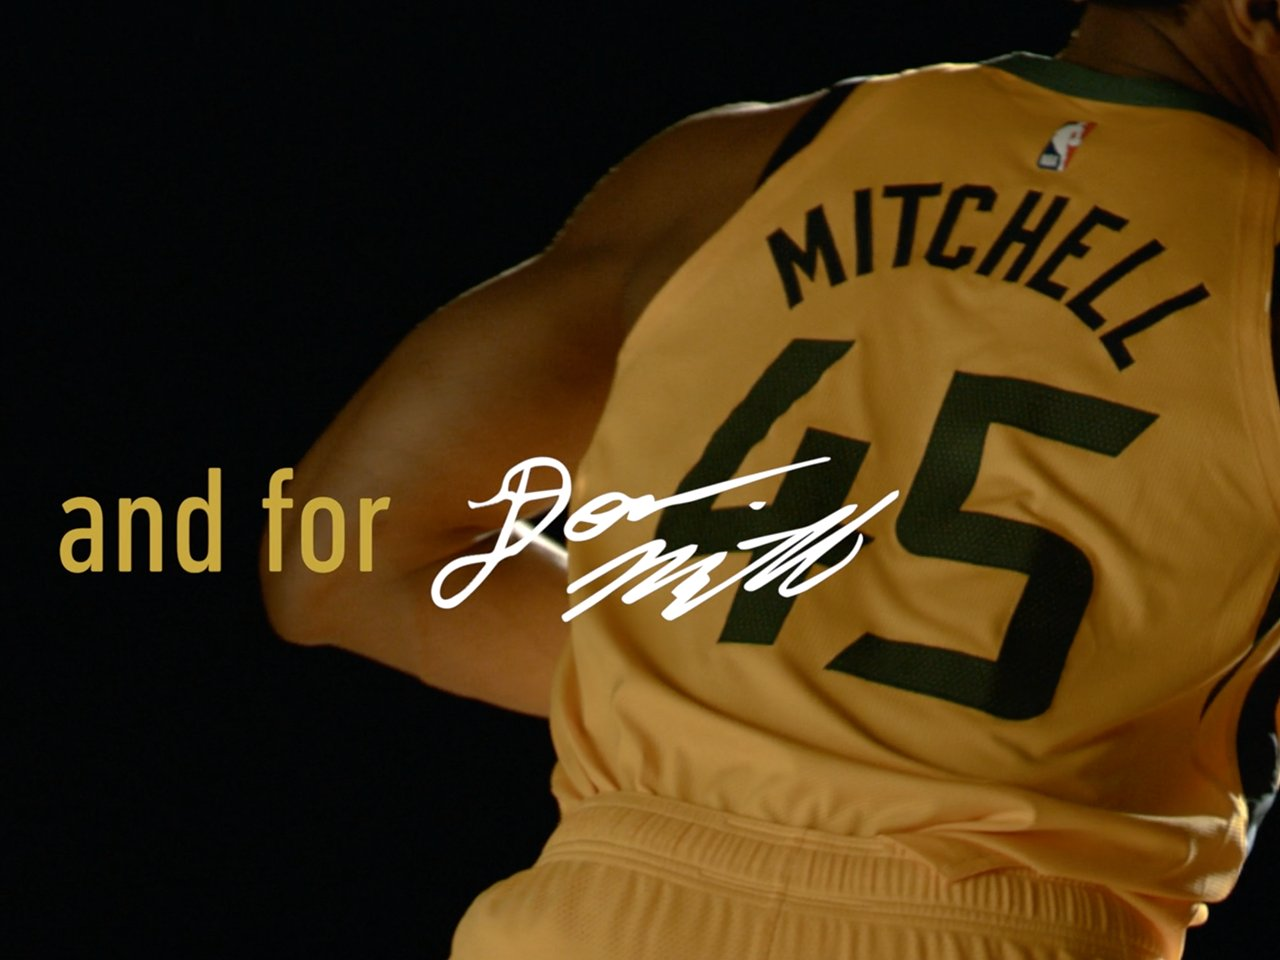
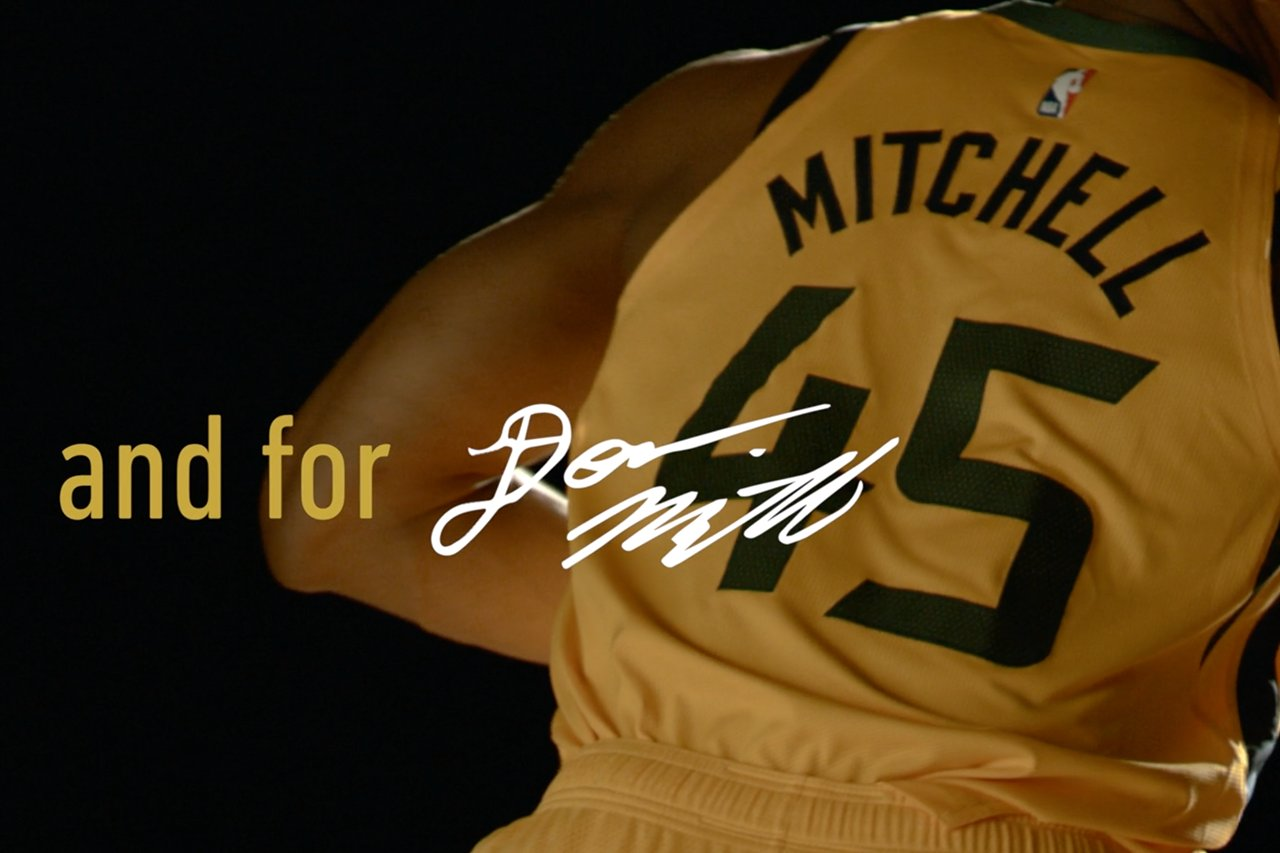
Preview: 3:2 gallery cards on #F2F1EE, framed wide pieces (&Collar board face, Morgan, Ken Garff, Rustic Coffins), full-bleed VSP/Zions/Canyons/DMS crops

diff --git a/index.html b/index.html
@@ -45,7 +45,7 @@
   <div class="grid">
 
     <a class="card" href="work/and-collar.html">
-      <div class="thumb"><img src="img/and-collar/cover.jpg" srcset="img/and-collar/cover-800.jpg 800w, img/and-collar/cover.jpg 1826w" sizes="(max-width: 760px) 88vw, 44vw" width="1826" height="604" alt="&amp;Collar billboard — Zero tucks given."></div>
+      <div class="thumb"><img src="img/and-collar/cover.jpg" srcset="img/and-collar/cover-800.jpg 800w, img/and-collar/cover.jpg 1800w" sizes="(max-width: 760px) 88vw, 44vw" width="1800" height="1200" alt="&amp;Collar billboard — Zero tucks given."></div>
       <div class="meta">
         <div>
           <strong>&amp;Collar</strong>
@@ -55,7 +55,7 @@
       </div>
     </a>
     <a class="card" href="work/morgan-jewelers.html">
-      <div class="thumb"><img src="img/morgan-jewelers/cover-wise-men.jpg" srcset="img/morgan-jewelers/cover-wise-men-800.jpg 800w, img/morgan-jewelers/cover-wise-men.jpg 1194w" sizes="(max-width: 760px) 88vw, 44vw" width="1194" height="384" alt="Morgan Jewelers — Wise men bring gifts."></div>
+      <div class="thumb"><img src="img/morgan-jewelers/cover-wise-men.jpg" srcset="img/morgan-jewelers/cover-wise-men-800.jpg 800w, img/morgan-jewelers/cover-wise-men.jpg 1388w" sizes="(max-width: 760px) 88vw, 44vw" width="1388" height="925" alt="Morgan Jewelers — Wise men bring gifts."></div>
       <div class="meta">
         <div>
           <strong>Morgan Jewelers</strong>
@@ -65,7 +65,7 @@
       </div>
     </a>
     <a class="card" href="work/ken-garff.html">
-      <div class="thumb"><img src="img/ken-garff/cover.jpg" srcset="img/ken-garff/cover-800.jpg 800w, img/ken-garff/cover-1400.jpg 1400w, img/ken-garff/cover.jpg 1676w" sizes="(max-width: 760px) 88vw, 44vw" width="1676" height="1257" alt="Ken Garff billboard in three stages — a painter covers a loud car-sale ad to reveal We Hear You" loading="lazy"></div>
+      <div class="thumb"><img src="img/ken-garff/cover.jpg" srcset="img/ken-garff/cover-800.jpg 800w, img/ken-garff/cover.jpg 1800w" sizes="(max-width: 760px) 88vw, 44vw" width="1800" height="1200" alt="Ken Garff billboard in three stages — a painter covers a loud car-sale ad to reveal We Hear You" loading="lazy"></div>
       <div class="meta">
         <div>
           <strong>Ken Garff</strong>
@@ -75,7 +75,7 @@
       </div>
     </a>
     <a class="card" href="work/rustic-coffins.html">
-      <div class="thumb"><img src="img/rustic-coffins/cover.jpg" srcset="img/rustic-coffins/cover-800.jpg 800w, img/rustic-coffins/cover.jpg 1036w" sizes="(max-width: 760px) 88vw, 44vw" width="1036" height="777" alt="Rustic Coffins poster — Six feet under. Not six grand over." loading="lazy"></div>
+      <div class="thumb"><img src="img/rustic-coffins/cover.jpg" srcset="img/rustic-coffins/cover-800.jpg 800w, img/rustic-coffins/cover.jpg 1388w" sizes="(max-width: 760px) 88vw, 44vw" width="1388" height="925" alt="Rustic Coffins poster — Six feet under. Not six grand over." loading="lazy"></div>
       <div class="meta">
         <div>
           <strong>Rustic Coffins</strong>
@@ -85,7 +85,7 @@
       </div>
     </a>
     <a class="card" href="work/zions-bank.html">
-      <div class="thumb"><img src="img/zions-bank/cover.jpg" srcset="img/zions-bank/cover-800.jpg 800w, img/zions-bank/cover.jpg 1280w" sizes="(max-width: 760px) 88vw, 44vw" width="1280" height="960" alt="Zions Bank spot featuring Donovan Mitchell" loading="lazy"></div>
+      <div class="thumb"><img src="img/zions-bank/cover.jpg" srcset="img/zions-bank/cover-800.jpg 800w, img/zions-bank/cover.jpg 1280w" sizes="(max-width: 760px) 88vw, 44vw" width="1280" height="853" alt="Zions Bank spot featuring Donovan Mitchell" loading="lazy"></div>
       <div class="meta">
         <div>
           <strong>Zions Bank</strong>
@@ -95,7 +95,7 @@
       </div>
     </a>
     <a class="card" href="work/canyons.html">
-      <div class="thumb"><img src="img/canyons/cover.jpg" srcset="img/canyons/cover-800.jpg 800w, img/canyons/cover.jpg 1218w" sizes="(max-width: 760px) 88vw, 44vw" width="1218" height="989" alt="Canyons — Crazy how snow can start a fire" loading="lazy"></div>
+      <div class="thumb"><img src="img/canyons/cover-32.jpg" srcset="img/canyons/cover-32-800.jpg 800w, img/canyons/cover-32.jpg 1218w" sizes="(max-width: 760px) 88vw, 44vw" width="1218" height="812" alt="Canyons — Crazy how snow can start a fire" loading="lazy"></div>
       <div class="meta">
         <div>
           <strong>Canyons</strong>
@@ -105,7 +105,7 @@
       </div>
     </a>
     <a class="card" href="work/vsp-individual-vision-plans.html">
-      <div class="thumb"><img src="img/vsp-individual-vision-plans/cover-clean.jpg" srcset="img/vsp-individual-vision-plans/cover-clean-800.jpg 800w, img/vsp-individual-vision-plans/cover-clean-1400.jpg 1400w, img/vsp-individual-vision-plans/cover-clean.jpg 2100w" sizes="(max-width: 760px) 88vw, 44vw" width="2100" height="1575" alt="VSP posters — Lost: your vision coverage? Missing: the benefits of good vision?" loading="lazy"></div>
+      <div class="thumb"><img src="img/vsp-individual-vision-plans/cover-clean.jpg" srcset="img/vsp-individual-vision-plans/cover-clean-800.jpg 800w, img/vsp-individual-vision-plans/cover-clean.jpg 1652w" sizes="(max-width: 760px) 88vw, 44vw" width="1652" height="1101" alt="VSP posters — Lost: your vision coverage? Missing: the benefits of good vision?" loading="lazy"></div>
       <div class="meta">
         <div>
           <strong>VSP</strong>
@@ -115,7 +115,7 @@
       </div>
     </a>
     <a class="card" href="work/demand-more-supply.html">
-      <div class="thumb"><img src="img/demand-more-supply/cover-garage.jpg" srcset="img/demand-more-supply/cover-garage-800.jpg 800w, img/demand-more-supply/cover-garage.jpg 1440w" sizes="(max-width: 760px) 88vw, 44vw" width="1440" height="1080" alt="Demand More Supply — a garage door opens on an apartment inside" loading="lazy"></div>
+      <div class="thumb"><img src="img/demand-more-supply/cover-garage.jpg" srcset="img/demand-more-supply/cover-garage-800.jpg 800w, img/demand-more-supply/cover-garage.jpg 1620w" sizes="(max-width: 760px) 88vw, 44vw" width="1620" height="1080" alt="Demand More Supply — a garage door opens on an apartment inside" loading="lazy"></div>
       <div class="meta">
         <div>
           <strong>Demand More Supply</strong>

diff --git a/css/site.css b/css/site.css
@@ -502,3 +502,9 @@ img { max-width: 100%; display: block; height: auto; }
   .hero { padding-top: 5vh; }
 }
 .credit { margin-top: 2rem; color: var(--paper); }
+
+/* sep28: gallery cards — one 3:2 frame for every cover */
+.card .thumb { aspect-ratio: 3 / 2; background: #f2f1ee; }
+.card img { object-fit: cover; object-position: center; }
+.card .meta { padding-top: 0.9rem; }
+.card .blurb { min-height: 1.35em; }
